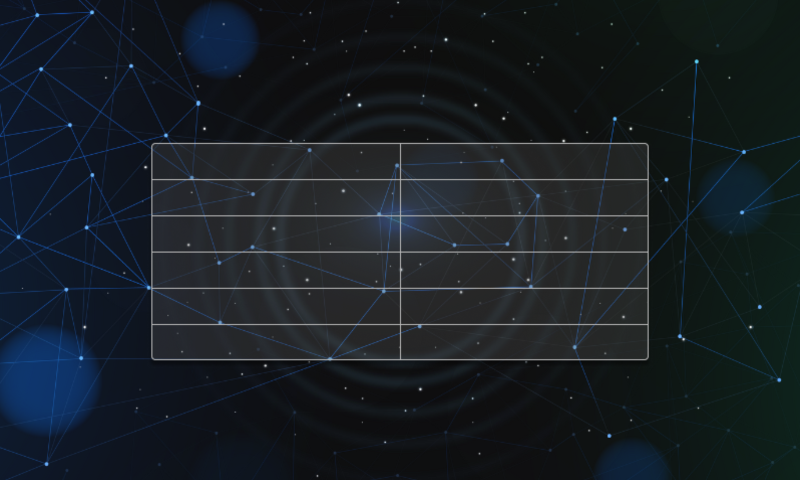
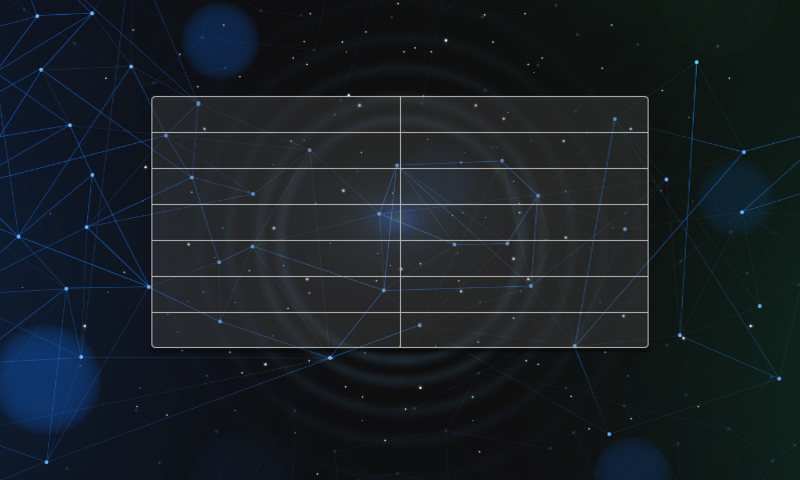
Update benchmark results to report RAM and flash usage
- Remove stack and heap usage from benchmark result screen
- Add RAM usage metric
- Add internal and external flash usage metrics

diff --git a/stm32u5g9j_dk2_qt_benchmark.qml b/stm32u5g9j_dk2_qt_benchmark.qml
@@ -10,13 +10,15 @@ Rectangle {
     property int currentScreen: MainScreen.ScreenIndex.MainscreenButton
     property int demoName: 1
     property int tempfpsAvg: 0
-    property int tempstackusageAvg: 0
-    property int tempheapusageAvg: 0
+    property int tempusageRAMAvg: 0
+    property int tempinternalflashusageAvg: 0
+    property int tempexternalflashusageAvg: 0
     property int tempredertimeAvg: 0
     property int tempcpuloadAvg: 0
     property int fpsAvg: 0
-    property int stackusageAvg: 0
-    property int heapusageAvg: 0
+    property int usageRAMAvg: 0
+    property int internalflashusageAvg: 0
+    property int externalflashusageAvg: 0
     property int redertimeAvg: 0
     property int cpuloadAvg: 0
     property int tickTimeAvg: 0
@@ -25,7 +27,7 @@ Rectangle {
     Text {
         id: demo
         x: 415
-        y: 154
+        y: 106
         z: 10
         font.family: "Calibri"
         font.pixelSize: 18
@@ -59,7 +61,7 @@ Rectangle {
     Text {
         id: framevalue
         x: 415
-        y: 190
+        y: 142
         z: 10
         text: fpsAvg
         font.family: "Calibri"
@@ -69,11 +71,11 @@ Rectangle {
     }
 
     Text {
-        id: stackvalue
+        id: ramvalue
         x: 415
-        y: 226
+        y: 178
         z: 10
-        text: stackusageAvg + " KB"
+        text: usageRAMAvg + " MB"
         font.family: "Calibri"
         font.pixelSize: 18
         color: "white"
@@ -81,11 +83,23 @@ Rectangle {
     }
 
     Text {
-        id: heapvalue
+        id: internalflashvalue
         x: 415
-        y: 262
+        y: 214
         z: 10
-        text: heapusageAvg + " KB"
+        text: internalflashusageAvg + " KB"
+        font.family: "Calibri"
+        font.pixelSize: 18
+        color: "white"
+        visible: currentScreen === MainScreen.ScreenIndex.ResultScreen
+    }
+
+    Text {
+        id: externalflashvalue
+        x: 415
+        y: 250
+        z: 10
+        text: externalflashusageAvg + " MB"
         font.family: "Calibri"
         font.pixelSize: 18
         color: "white"
@@ -95,7 +109,7 @@ Rectangle {
     Text {
         id: rendervalue
         x: 415
-        y: 298
+        y: 286
         z: 10
         text: redertimeAvg + " ms"
         font.family: "Calibri"
@@ -107,7 +121,7 @@ Rectangle {
     Text {
         id: cpuvalue
         x: 415
-        y: 334
+        y: 322
         z: 10
         text: cpuloadAvg + " %"
         font.family: "Calibri"
@@ -163,13 +177,14 @@ Rectangle {
         running: true
         repeat: true
         onTriggered: {
-            setStatus.update(setStatus.cpuUsage, setStatus.stackUsage, setStatus.heapUsage, setStatus.fps, setStatus.renderTime);
+            setStatus.update(setStatus.cpuUsage, setStatus.ramUsage, setStatus.internalflashUsage, setStatus.externalflashUsage, setStatus.fps, setStatus.renderTime);
 
             if (currentScreen >= 1 && currentScreen <= 6) {
                 tickTimeAvg++;
                 tempfpsAvg        += setStatus.fps;
-                tempstackusageAvg += setStatus.stackUsage;
-                tempheapusageAvg  += setStatus.heapUsage;
+                tempusageRAMAvg   += setStatus.ramUsage;
+                tempinternalflashusageAvg  += setStatus.internalflashUsage;
+                tempexternalflashusageAvg  += setStatus.externalflashUsage;
                 tempredertimeAvg  += setStatus.renderTime;
                 tempcpuloadAvg    += setStatus.cpuUsage;
             } else {
@@ -213,15 +228,17 @@ Rectangle {
     function goToResultScreen() {
         if (tickTimeAvg > 0) {
             fpsAvg        = tempfpsAvg        / tickTimeAvg;
-            stackusageAvg = tempstackusageAvg / tickTimeAvg;
-            heapusageAvg  = tempheapusageAvg  / tickTimeAvg;
+            usageRAMAvg = tempusageRAMAvg / tickTimeAvg;
+            internalflashusageAvg  = tempinternalflashusageAvg  / tickTimeAvg;
+            externalflashusageAvg  = tempexternalflashusageAvg  / tickTimeAvg;
             redertimeAvg  = tempredertimeAvg  / tickTimeAvg;
             cpuloadAvg    = tempcpuloadAvg    / tickTimeAvg;
         }
         tickTimeAvg = 0;
         tempfpsAvg = 0;
-        tempstackusageAvg = 0;
-        tempheapusageAvg = 0;
+        tempusageRAMAvg = 0;
+        tempinternalflashusageAvg = 0;
+        tempexternalflashusageAvg = 0;
         tempredertimeAvg = 0;
         tempcpuloadAvg = 0;
 

diff --git a/ResultScreen.qml b/ResultScreen.qml
@@ -28,7 +28,7 @@ Item {
         Text {
             id: text1
             x: 165
-            y: 154
+            y: 106
             text: "Test"
             font.family: "Calibri"
             font.pixelSize: 18
@@ -39,7 +39,7 @@ Item {
         Text {
             id: text2
             x: 165
-            y: 190
+            y: 142
             text: "Frame Rate (FPS)"
             font.family: "Calibri"
             font.pixelSize: 18
@@ -49,8 +49,8 @@ Item {
         Text {
             id: text3
             x: 165
-            y: 226
-            text: "Stack Usage"
+            y: 178
+            text: "RAM Usage"
             font.family: "Calibri"
             font.pixelSize: 18
             color: "white"
@@ -59,8 +59,8 @@ Item {
         Text {
             id: text4
             x: 165
-            y: 262
-            text: "Heap Usage"
+            y: 214
+            text: "Internal Flash Usage"
             font.family: "Calibri"
             font.pixelSize: 18
             color: "white"
@@ -69,8 +69,8 @@ Item {
         Text {
             id: text5
             x: 165
-            y: 298
-            text: "Render Time (Frame Latency)"
+            y: 250
+            text: "External Flash Usage"
             font.family: "Calibri"
             font.pixelSize: 18
             color: "white"
@@ -79,7 +79,17 @@ Item {
         Text {
             id: text6
             x: 165
-            y: 334
+            y: 286
+            text: "Render Time (Frame Latency)"
+            font.family: "Calibri"
+            font.pixelSize: 18
+            color: "white"
+        }
+
+        Text {
+            id: text7
+            x: 165
+            y: 322
             text: "CPU Load %"
             font.family: "Calibri"
             font.pixelSize: 18

diff --git a/main.cpp b/main.cpp
@@ -29,18 +29,36 @@ static uint32_t last_time = 0;
 static uint32_t last_frames = 0;
 volatile uint32_t current_ms = 0;
 volatile uint32_t elapsed_ms = 0;
-volatile uint32_t stackUsage = 0;
-volatile uint32_t heapUsage = 0;
 volatile uint32_t frames = 0;
 StatusProvider statusProvider;
 
+volatile uint32_t totalRamUsed = 0;
+
 extern "C" {
 void metrics_print(void);
+// Declare Internal Flash Symbols
+extern uint32_t _sidata;       // Start of Data in Flash
+extern uint32_t _sdata;        // Start of Data in RAM
+extern uint32_t _edata;        // End of Data in RAM
+extern uint32_t _sbss;         // Start of BSS in RAM
+extern uint32_t _ebss;         // End of BSS in RAM
+extern uint32_t __Stack_Size;
+
+// Declare External OSPI Symbols (The ones we added)
+extern uint32_t __ospi_font_start__;
+extern uint32_t __ospi_font_end__;
+extern uint32_t __ospi_mres_start__;
+extern uint32_t __ospi_mres_end__;
+extern uint32_t __ospi_res_start__;
+extern uint32_t __ospi_res_end__;
 }
 
 int main()
 {
     Qul::initHardware();
+    CoreDebug->DEMCR |= CoreDebug_DEMCR_TRCENA_Msk;
+    DWT->CYCCNT = 0;
+    DWT->CTRL |= DWT_CTRL_CYCCNTENA_Msk;
 
 #ifdef APP_SAFE_RENDERER
     static SafeRendererBitmapDecoder srbDecoder;
@@ -82,7 +100,6 @@ static void Matrics_Thread(void *argument)
     (void) argument;
     while (1) {
         metrics_print();
-        // HAL_Delay(100);
     }
 }
 
@@ -90,26 +107,26 @@ int GetTaskCPUUsage(TaskHandle_t thread_id)
 {
     static uint32_t lastTotalRunTime = 0;
     static uint32_t lastTaskRunTime = 0;
- 
+
     UBaseType_t taskCount;
     TaskStatus_t *pxTaskStatusArray;
     configRUN_TIME_COUNTER_TYPE totalRunTime;
     int result = 0;
- 
+
     taskCount = uxTaskGetNumberOfTasks();
     pxTaskStatusArray = (TaskStatus_t *)pvPortMalloc(taskCount * sizeof(TaskStatus_t));
- 
+
     if (pxTaskStatusArray != NULL) {
         taskCount = uxTaskGetSystemState(pxTaskStatusArray, taskCount, &totalRunTime);
         uint32_t deltaTotal = totalRunTime - lastTotalRunTime;
- 
+
         if (deltaTotal > 0) {
             for (UBaseType_t i = 0; i < taskCount; i++) {
                 if (pxTaskStatusArray[i].xHandle == (TaskHandle_t)thread_id) {
                     uint32_t deltaTask = pxTaskStatusArray[i].ulRunTimeCounter - lastTaskRunTime;
                     percentage = ((float)deltaTask / (float)deltaTotal) * 100.0f;
                     result = (int)percentage;
- 
+
                     lastTaskRunTime = pxTaskStatusArray[i].ulRunTimeCounter;
                     break;
                 }
@@ -163,8 +180,19 @@ void metrics_print(void)
     current_ms = HAL_GetTick();
     elapsed_ms = current_ms - last_time;
 
-    stackUsage = (QUL_STACK_SIZE - uxTaskGetStackHighWaterMark(GUItaskHandler)) * sizeof(StackType_t);
-    heapUsage = configTOTAL_HEAP_SIZE - xPortGetFreeHeapSize();
+    totalRamUsed = ((uint32_t)&_edata - (uint32_t)&_sdata) +
+                   ((uint32_t)&_ebss - (uint32_t)&_sbss) +
+                   configTOTAL_HEAP_SIZE +
+                   (uint32_t)&__Stack_Size;
+
+    uint32_t flash_start = 0x08000000;
+    uint32_t data_size   = (uint32_t)&_edata - (uint32_t)&_sdata;
+    uint32_t internal_flash_usage = ((uint32_t)&_sidata - flash_start) + data_size;
+
+    uint32_t ospi_font = (uint32_t)&__ospi_font_end__ - (uint32_t)&__ospi_font_start__;
+    uint32_t ospi_mres = (uint32_t)&__ospi_mres_end__ - (uint32_t)&__ospi_mres_start__;
+    uint32_t ospi_res = (uint32_t)&__ospi_res_end__ - (uint32_t)&__ospi_res_start__;
+    uint32_t external_memory_usage = ospi_font + ospi_mres + ospi_res;
 
     if (elapsed_ms >= 1000)
     {
@@ -172,7 +200,7 @@ void metrics_print(void)
         frames = framecounter - last_frames;
         last_frames = framecounter;
 
-        statusProvider.update(GetTaskCPUUsage(GUItaskHandler), stackUsage/1024, heapUsage/1024, frames, render_time);
+        statusProvider.update(GetTaskCPUUsage(GUItaskHandler), totalRamUsed/(1024 * 1024), internal_flash_usage/1024, external_memory_usage/(1024 * 1024), frames, render_time);
         render_time = 0;
     }
 }

diff --git a/StatusProvider.h b/StatusProvider.h
@@ -8,25 +8,28 @@ class StatusProvider : public Qul::Object
 {
 public:
     Qul::Property<int> cpuUsage;
-    Qul::Property<uint32_t> stackUsage;
-    Qul::Property<uint32_t> heapUsage;
+    Qul::Property<uint32_t> ramUsage;
+    Qul::Property<uint32_t> internalflashUsage;
+    Qul::Property<uint32_t> externalflashUsage;
     Qul::Property<uint32_t> fps;
     Qul::Property<uint64_t> renderTime;
 
     StatusProvider ()
     {
         cpuUsage.setValue(0);
-        stackUsage.setValue(0);
-        heapUsage.setValue(0);
+        ramUsage.setValue(0);
+        internalflashUsage.setValue(0);
+        externalflashUsage.setValue(0);
         fps.setValue(0);
         renderTime.setValue(0);
     }
 
-    void update(int cpu, uint32_t stack, uint32_t heap, uint32_t frames, uint64_t render_ms)
+    void update(int cpu, uint32_t RAM, uint32_t internalflash, uint32_t externalflash, uint32_t frames, uint64_t render_ms)
     {
         cpuUsage.setValue(cpu);
-        stackUsage.setValue(stack);
-        heapUsage.setValue(heap);
+        ramUsage.setValue(RAM);
+        internalflashUsage.setValue(internalflash);
+        externalflashUsage.setValue(externalflash);
         fps.setValue(frames);
         renderTime.setValue(render_ms);
     }
